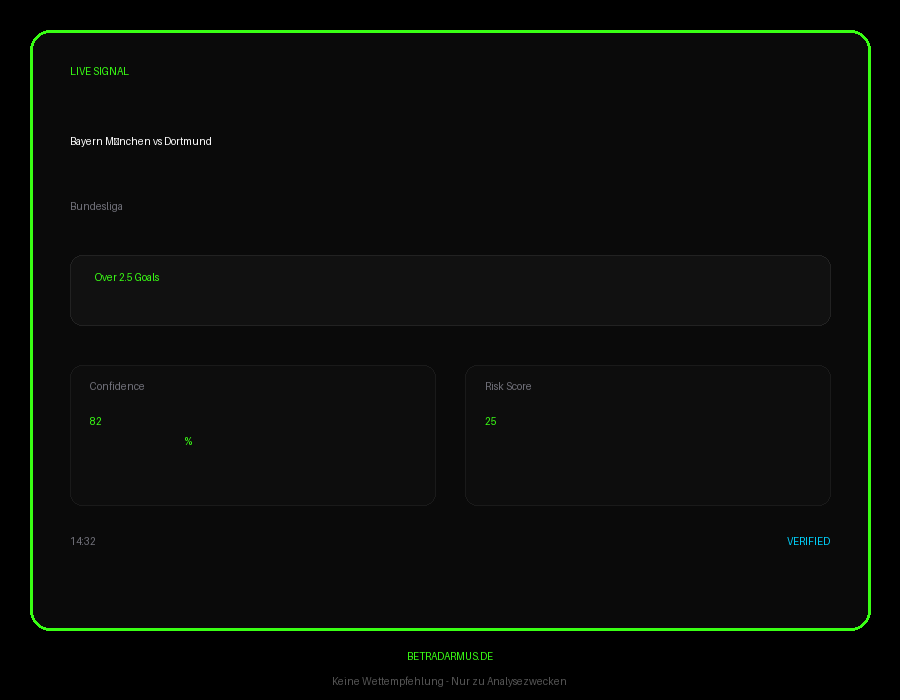
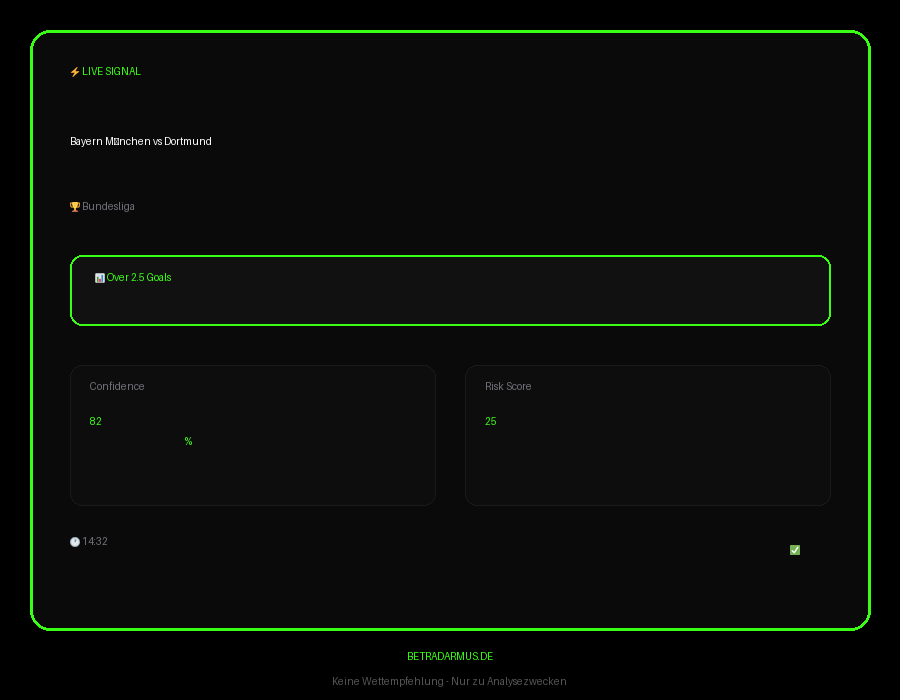
auto-commit for 7fcf1566-159b-4ef5-85a2-0ac6b3d360e2

diff --git a/backend/signal_image_generator.py b/backend/signal_image_generator.py
@@ -5,8 +5,8 @@ Creates professional signal cards for Telegram
 
 import io
 from PIL import Image, ImageDraw, ImageFont
+from pilmoji import Pilmoji
 from datetime import datetime, timezone
-import requests
 from typing import Dict, Any, Optional
 import logging
 
@@ -69,6 +69,9 @@ def create_signal_image(signal: Dict[str, Any]) -> io.BytesIO:
     img = Image.new('RGB', (width, height), hex_to_rgb('#000000'))
     draw = ImageDraw.Draw(img)
     
+    # Use Pilmoji for emoji support
+    pilmoji = Pilmoji(img)
+    
     # Load fonts - LARGE and readable
     try:
         font_header = ImageFont.truetype("/usr/share/fonts/truetype/dejavu/DejaVuSans-Bold.ttf", 36)
@@ -79,6 +82,8 @@ def create_signal_image(signal: Dict[str, Any]) -> io.BytesIO:
         font_number = ImageFont.truetype("/usr/share/fonts/truetype/dejavu/DejaVuSans-Bold.ttf", 80)
         font_percent = ImageFont.truetype("/usr/share/fonts/truetype/dejavu/DejaVuSans-Bold.ttf", 40)
         font_footer = ImageFont.truetype("/usr/share/fonts/truetype/dejavu/DejaVuSans-Bold.ttf", 24)
+        font_emoji = ImageFont.truetype("/usr/share/fonts/truetype/noto/NotoColorEmoji.ttf", 28)
+        font_emoji_large = ImageFont.truetype("/usr/share/fonts/truetype/noto/NotoColorEmoji.ttf", 36)
     except Exception:
         font_header = ImageFont.load_default()
         font_match = ImageFont.load_default()
@@ -88,6 +93,8 @@ def create_signal_image(signal: Dict[str, Any]) -> io.BytesIO:
         font_number = ImageFont.load_default()
         font_percent = ImageFont.load_default()
         font_footer = ImageFont.load_default()
+        font_emoji = ImageFont.load_default()
+        font_emoji_large = ImageFont.load_default()
     
     # Extract signal data
     match = signal.get('match', 'Team A vs Team B')
@@ -116,16 +123,16 @@ def create_signal_image(signal: Dict[str, Any]) -> io.BytesIO:
     content_x = card_x + 40
     content_y = card_y + 35
     
-    # === HEADER: LIVE SIGNAL ===
-    draw.text((content_x, content_y), "LIVE SIGNAL", fill=hex_to_rgb('#39FF14'), font=font_header)
+    # === HEADER: ⚡ LIVE SIGNAL ===
+    pilmoji.text((content_x, content_y), "⚡ LIVE SIGNAL", fill=hex_to_rgb('#39FF14'), font=font_header)
     content_y += 70
     
     # === MATCH NAME === (Large, white, bold)
     draw.text((content_x, content_y), match, fill=hex_to_rgb('#FFFFFF'), font=font_match)
     content_y += 65
     
-    # === LEAGUE === (Gray)
-    draw.text((content_x, content_y), league, fill=hex_to_rgb('#71717A'), font=font_league)
+    # === LEAGUE === (Gray) with trophy emoji
+    pilmoji.text((content_x, content_y), f"🏆 {league}", fill=hex_to_rgb('#71717A'), font=font_league)
     content_y += 55
     
     # === MARKET BOX ===
@@ -136,13 +143,13 @@ def create_signal_image(signal: Dict[str, Any]) -> io.BytesIO:
         [content_x, content_y, content_x + market_box_width, content_y + market_box_height],
         radius=12,
         fill=hex_to_rgb('#111111'),
-        outline=hex_to_rgb('#222222'),
-        width=1
+        outline=hex_to_rgb('#39FF14'),
+        width=2
     )
     
-    # Market text centered vertically
+    # Market text centered vertically with chart emoji
     market_y = content_y + (market_box_height - 38) // 2
-    draw.text((content_x + 25, market_y), market, fill=hex_to_rgb('#39FF14'), font=font_market)
+    pilmoji.text((content_x + 25, market_y), f"📊 {market}", fill=hex_to_rgb('#39FF14'), font=font_market)
     content_y += market_box_height + 40
     
     # === CONFIDENCE & RISK SCORE ===
@@ -186,13 +193,12 @@ def create_signal_image(signal: Dict[str, Any]) -> io.BytesIO:
     content_y += metric_box_height + 30
     
     # === FOOTER: Timestamp & Checkmarks ===
-    draw.text((content_x, content_y), timestamp, fill=hex_to_rgb('#71717A'), font=font_footer)
+    pilmoji.text((content_x, content_y), f"🕐 {timestamp}", fill=hex_to_rgb('#71717A'), font=font_footer)
     
-    # "VERIFIED" on right instead of checkmarks
-    verified_text = "VERIFIED"
-    verified_bbox = draw.textbbox((0, 0), verified_text, font=font_footer)
-    verified_x = content_x + card_width - 80 - (verified_bbox[2] - verified_bbox[0])
-    draw.text((verified_x, content_y), verified_text, fill=hex_to_rgb('#00D4FF'), font=font_footer)
+    # Double checkmark on right
+    check_text = "✅"
+    check_x = content_x + card_width - 120
+    pilmoji.text((check_x, content_y), check_text, fill=hex_to_rgb('#00D4FF'), font=font_footer)
     
     # === BRANDING at bottom ===
     brand_text = "BETRADARMUS.DE"